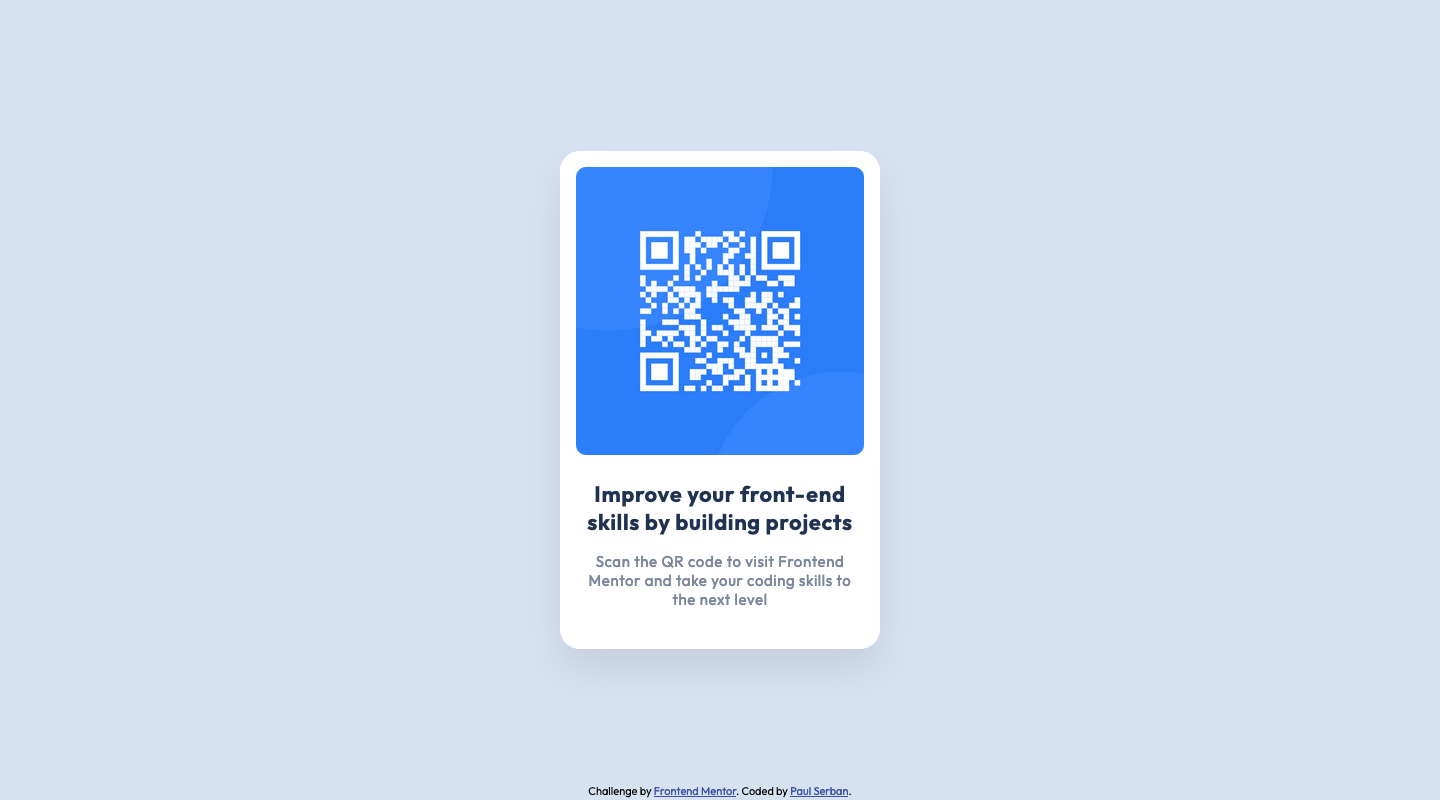
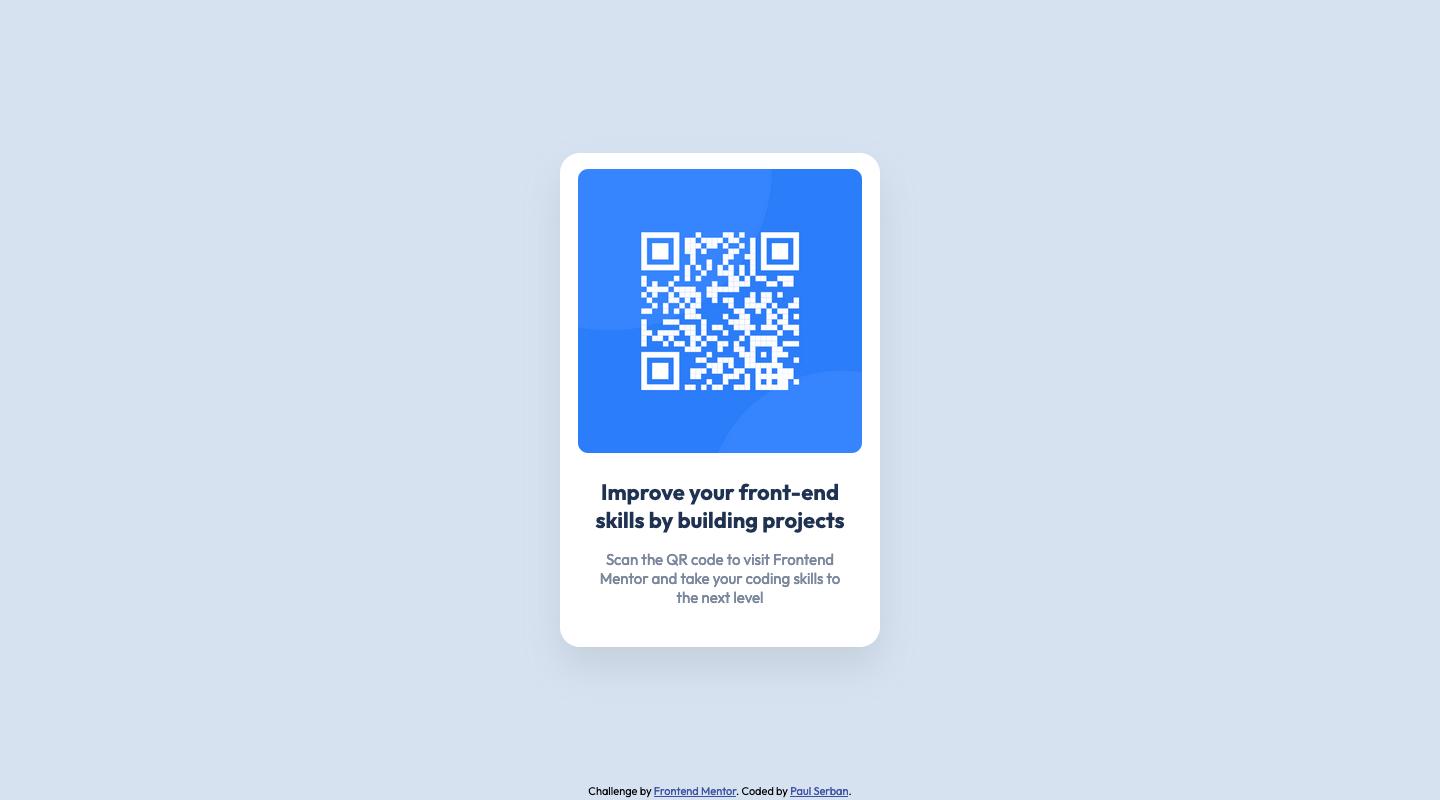
fix(styles): adjustments

Changed region(s): [[0.4062, 0.5938, 0.5938, 0.7812], [0.4375, 0.2812, 0.5625, 0.5], [0.4062, 0.1875, 0.5938, 0.2188]]

diff --git a/frontend/frontend-mentor-library/src/library/patterns/card/scss/qr-code-card.entry.scss b/frontend/frontend-mentor-library/src/library/patterns/card/scss/qr-code-card.entry.scss
@@ -28,7 +28,7 @@ body {
     &__base {
         background-color: var(--container-background-color);
         border-radius: var(--container-border-radius);
-        padding-inline: convert-rem(16px);
+        padding-inline: convert-rem(18px);
         padding-block: convert-rem(16px) convert-rem(40px);
         max-width: convert-rem(320px);
         box-shadow: var(--container-box-shadow);
